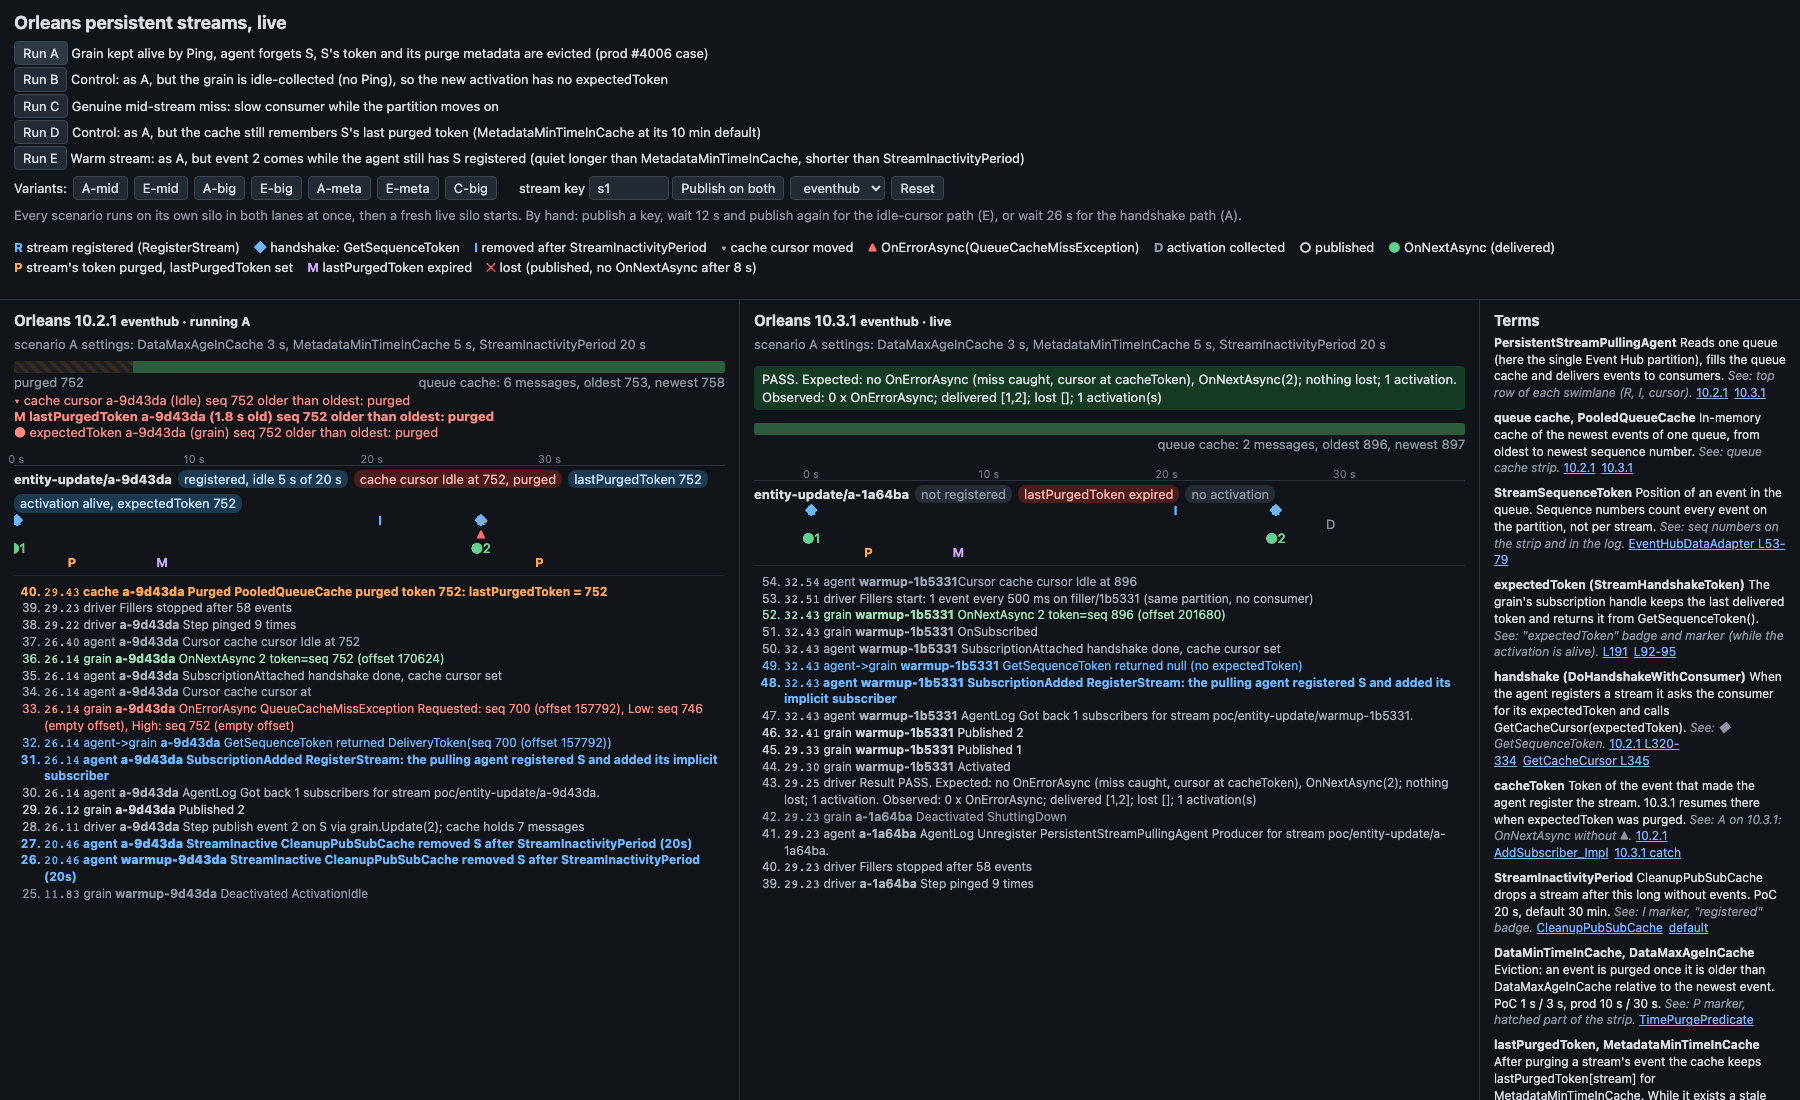
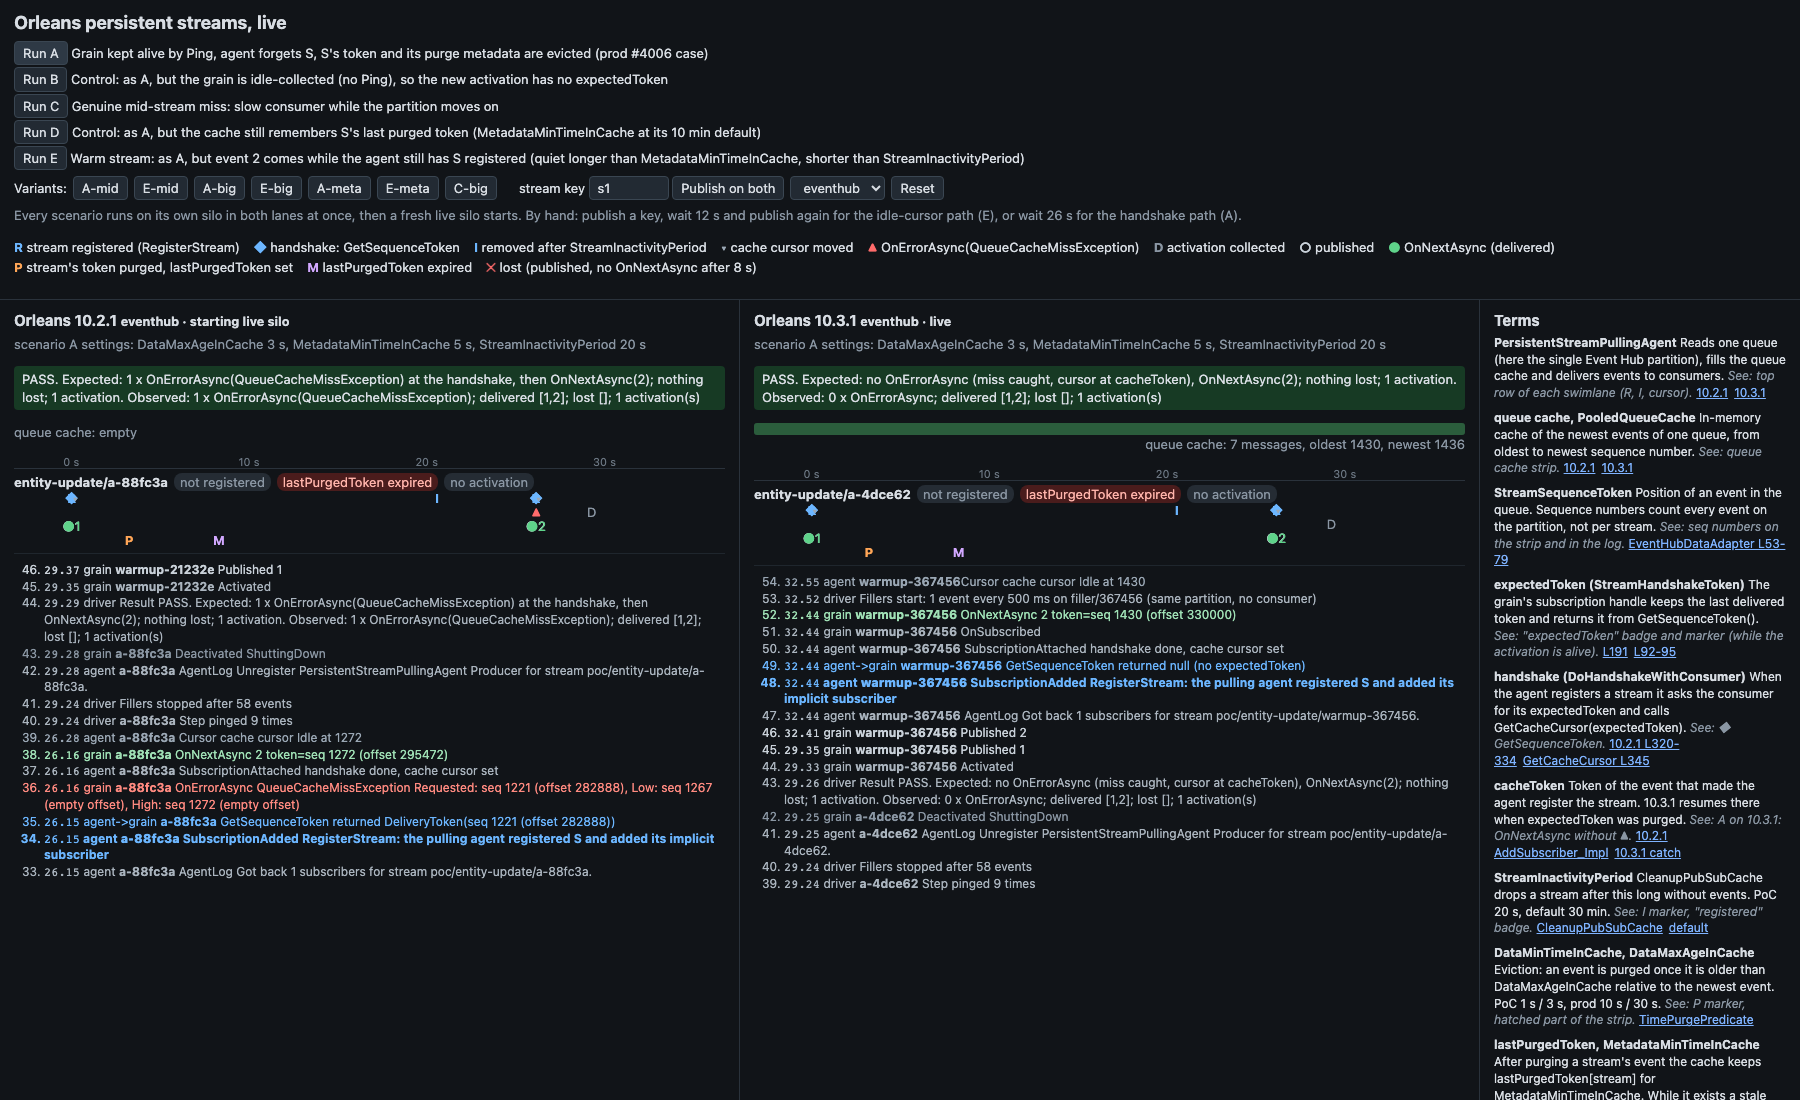
Live UI: ponytail cuts, review fixes (StopLive always stops the host, no false purge-metadata expiry on shutdown), README section

diff --git a/live/web/src/main.tsx b/live/web/src/main.tsx
@@ -3,8 +3,8 @@ import { createRoot } from 'react-dom/client'
 import { TERMS } from './terms'
 
 type FeedEvent = { at: number; source: string; stream: string; kind: string; detail: string; version: number | null }
-type Consumer = { state: string; cursor: string | null; cursorSeq: string | null; lastTokenSeq: string | null }
-type StreamState = { key: string; registered: boolean; idleS: number; consumers: Consumer[] }
+type Consumer = { cursor: string | null; cursorSeq: string | null }
+type StreamState = { key: string; idleS: number; consumers: Consumer[] }
 type Cache = { items: number; oldest: string | null; newest: string | null; lastPurgedToken: Record<string, { seq: string; ageS: number }> }
 type State = {
   orleans: string
@@ -15,9 +15,8 @@ type State = {
   snapshot: { cache: Cache | null; streams: StreamState[] } | null
 }
 
-// One backend per Orleans version (see live/compose.yml). Override with ?lanes=http://host:port,http://host:port
-const LANES =
-  new URLSearchParams(location.search).get('lanes')?.split(',') ?? [8102, 8103].map(p => `${location.protocol}//${location.hostname}:${p}`)
+// One backend per Orleans version, see live/compose.yml.
+const LANES = [8102, 8103].map(p => `${location.protocol}//${location.hostname}:${p}`)
 const LOST_AFTER_MS = 8000
 const WINDOW_MS = 180_000
 const MAIN_SCENARIOS = ['A', 'B', 'C', 'D', 'E']
@@ -197,7 +196,7 @@ function CacheStrip({ state, events }: { state?: State; events: FeedEvent[] }) {
     return <div className="strip muted">queue cache: empty</div>
   }
   const [oldest, newest] = [BigInt(cache.oldest), BigInt(cache.newest)]
-  const consumerStreams = (state!.snapshot!.streams ?? []).filter(s => !s.key.startsWith('warmup'))
+  const consumerStreams = state!.snapshot!.streams.filter(s => !s.key.startsWith('warmup'))
   const marks: { seq: bigint; text: string; cls: string }[] = []
   for (const s of consumerStreams) {
     const c = s.consumers[0]

diff --git a/src/Live/Program.cs b/src/Live/Program.cs
@@ -23,7 +23,7 @@ app.UseStaticFiles();
 app.MapGet("/api/events", (Feed feed, CancellationToken ct) => TypedResults.ServerSentEvents(feed.Subscribe(ct)));
 app.MapGet("/api/state", (Lane lane) => lane.State());
 app.MapPost("/api/publish", async (Lane lane, PublishRequest r) =>
-    await lane.Publish(r.Key, r.Version) is { } version ? Results.Ok(new { r.Key, version }) : Results.Conflict("live silo not ready"));
+    await lane.Publish(r.Key) is { } version ? Results.Ok(new { r.Key, version }) : Results.Conflict("live silo not ready"));
 app.MapPost("/api/scenarios/{id}/run", (Lane lane, string id) =>
     Scenarios.All.All(v => v.Id != id) ? Results.NotFound() : lane.TryRestart(id, null) ? Results.Accepted() : Results.Conflict("busy"));
 app.MapPost("/api/reset", (Lane lane, string? transport) =>
@@ -31,7 +31,7 @@ app.MapPost("/api/reset", (Lane lane, string? transport) =>
     : lane.TryRestart(null, transport) ? Results.Accepted() : Results.Conflict("busy"));
 app.Run();
 
-public sealed record PublishRequest(string Key, int? Version);
+public sealed record PublishRequest(string Key);
 
 /// <param name="At">Unix time in ms when the backend saw it.</param>
 public sealed record FeedEvent(long At, string Source, string Stream, string Kind, string Detail, int? Version);
@@ -98,16 +98,13 @@ public sealed class Lane : IHostedService
     public static readonly Version Orleans = Version.Parse(Regex.Match(
         typeof(StreamPullingAgentOptions).Assembly.GetCustomAttribute<AssemblyInformationalVersionAttribute>()!.InformationalVersion, @"^\d+(\.\d+)+").Value);
 
-    // Silo ports are 11111 + offset and 30000 + offset; set SILO_PORT_OFFSET when another silo runs on this host.
-    private static readonly int PortOffset = int.Parse(Environment.GetEnvironmentVariable("SILO_PORT_OFFSET") ?? "0");
     private static readonly string LogDir = Directory.CreateDirectory(Path.Combine(Path.GetTempPath(), "poc-logs")).FullName;
 
     private readonly Feed feed;
     private readonly Timeline timeline = new();
     private readonly SemaphoreSlim gate = new(1, 1);
     private readonly ConcurrentDictionary<string, int> published = new();
-    private readonly CancellationTokenSource stopping = new();
-    private string transport = Environment.GetEnvironmentVariable("TRANSPORT") ?? "eventhub";
+    private string transport = "eventhub";
     private string status = "starting";
     private Variant settings = Scenarios.Find("A");
     private IHost? live;
@@ -127,15 +124,11 @@ public sealed class Lane : IHostedService
     {
         // The Event Hubs emulator can take a while to accept connections after compose starts it.
         TryRestart(null, null, attempts: 30);
-        _ = Inspect(stopping.Token);
+        _ = Inspect();
         return Task.CompletedTask;
     }
 
-    public async Task StopAsync(CancellationToken cancellationToken)
-    {
-        await stopping.CancelAsync();
-        await StopLive();
-    }
+    public Task StopAsync(CancellationToken cancellationToken) => StopLive();
 
     public object State() => new
     {
@@ -153,14 +146,14 @@ public sealed class Lane : IHostedService
         snapshot,
     };
 
-    public async Task<int?> Publish(string key, int? version)
+    public async Task<int?> Publish(string key)
     {
         if (live is null || status != "live")
         {
             return null;
         }
 
-        var v = published.AddOrUpdate(key, version ?? 1, (_, last) => version ?? last + 1);
+        var v = published.AddOrUpdate(key, 1, (_, last) => last + 1);
         await live.Services.GetRequiredService<IClusterClient>().GetGrain<IConsumerGrain>(key).Update(v);
         return v;
     }
@@ -214,7 +207,7 @@ public sealed class Lane : IHostedService
         {
             status = $"running {scenario}";
             settings = Scenarios.Find(scenario);
-            var r = await new Scenarios(transport, Orleans, LogDir).Run(scenario, PortOffset + 1, timeline, sp => silo = sp);
+            var r = await new Scenarios(transport, Orleans, LogDir).Run(scenario, 1, timeline, sp => silo = sp);
             silo = null;
             feed.Add("driver", "", "Result", $"{(r.Pass ? "PASS" : "FAIL")}. Expected: {r.Expected}. Observed: {r.Observed}");
         }
@@ -222,7 +215,7 @@ public sealed class Lane : IHostedService
         status = "starting live silo";
         settings = Scenarios.Find("A");
         var suffix = Guid.NewGuid().ToString("N")[..6];
-        var host = SiloHost.Build(transport, timeline, $"live{suffix}", PortOffset, settings.DataMaxAgeInCache, settings.MetadataMinTimeInCache, TextWriter.Null);
+        var host = SiloHost.Build(transport, timeline, $"live{suffix}", 0, settings.DataMaxAgeInCache, settings.MetadataMinTimeInCache, TextWriter.Null);
         try
         {
             await host.StartAsync();
@@ -231,8 +224,15 @@ public sealed class Lane : IHostedService
             await Scenarios.WarmUp(client, timeline, suffix);
             liveLoops = new CancellationTokenSource();
             liveTasks = Task.WhenAll(
-                Scenarios.RunFillers(client.GetStreamProvider(Names.Provider), suffix, timeline, liveLoops.Token),
-                KeepAlive(client, liveLoops.Token));
+                    Scenarios.RunFillers(client.GetStreamProvider(Names.Provider), suffix, timeline, liveLoops.Token),
+                    KeepAlive(client, liveLoops.Token))
+                .ContinueWith(t =>
+                {
+                    if (t.IsFaulted)
+                    {
+                        feed.Add("backend", "", "Error", $"live silo fillers or keep-alive stopped: {t.Exception!.GetBaseException().Message}");
+                    }
+                });
             live = host;
             status = "live";
         }
@@ -251,13 +251,12 @@ public sealed class Lane : IHostedService
             return;
         }
 
-        status = "stopping live silo";
-        silo = null;
+        var host = live;
+        (live, silo, status) = (null, null, "stopping live silo");
         await liveLoops!.CancelAsync();
         await liveTasks;
-        await live.StopAsync();
-        live.Dispose();
-        live = null;
+        await host.StopAsync();
+        host.Dispose();
     }
 
     // Like prod discovery calling GetConfig(): published grains stay active, so they keep their expectedToken.
@@ -276,13 +275,13 @@ public sealed class Lane : IHostedService
         }
     }
 
-    private async Task Inspect(CancellationToken ct)
+    private async Task Inspect()
     {
         Snapshot? previous = null;
         IServiceProvider? previousSilo = null;
-        while (!ct.IsCancellationRequested)
+        while (true)
         {
-            await Task.Delay(250, CancellationToken.None);
+            await Task.Delay(250);
             var current = silo;
             if (current != previousSilo)
             {
@@ -309,8 +308,7 @@ public sealed class Lane : IHostedService
 
     private void Diff(Snapshot before, Snapshot after)
     {
-        var purgedBefore = before.Cache?.LastPurgedToken ?? [];
-        var purgedAfter = after.Cache?.LastPurgedToken ?? [];
+        var (purgedBefore, purgedAfter) = (before.Cache.LastPurgedToken, after.Cache.LastPurgedToken);
         foreach (var (key, p) in purgedAfter.Where(kv => !purgedBefore.TryGetValue(kv.Key, out var old) || old.Seq != kv.Value.Seq))
         {
             feed.Add("cache", key, "Purged", $"PooledQueueCache purged token {p.Seq}: lastPurgedToken = {p.Seq}");
@@ -353,12 +351,8 @@ public sealed class Lane : IHostedService
     {
         public void OnNext(T value) => next(value);
 
-        public void OnError(Exception error)
-        {
-        }
+        public void OnError(Exception error) { }
 
-        public void OnCompleted()
-        {
-        }
+        public void OnCompleted() { }
     }
 }

diff --git a/src/Live/Inspector.cs b/src/Live/Inspector.cs
@@ -10,17 +10,18 @@ namespace Live;
 // Sequence numbers are strings: memory-stream tokens are tick-based and exceed JavaScript's safe integer range.
 public sealed record Purged(string Seq, double AgeS);
 
-public sealed record Consumer(string State, string? Cursor, string? CursorSeq, string? LastTokenSeq);
+public sealed record Consumer(string? Cursor, string? CursorSeq);
 
-public sealed record StreamState(string Key, bool Registered, double IdleS, Consumer[] Consumers);
+public sealed record StreamState(string Key, double IdleS, Consumer[] Consumers);
 
 public sealed record CacheState(int Items, string? Oldest, string? Newest, Dictionary<string, Purged> LastPurgedToken);
 
-public sealed record Snapshot(CacheState? Cache, StreamState[] Streams);
+public sealed record Snapshot(CacheState Cache, StreamState[] Streams);
 
 /// <summary>
 /// Reads PersistentStreamPullingAgent and PooledQueueCache internals by reflection (field names are the same in 10.2.1 and 10.3.1).
 /// The agent mutates them on its own scheduler, so a read can fail; the caller skips that tick.
+/// Returns null before the receiver has a cache and after agent shutdown (queueCache = null).
 /// </summary>
 public static class Inspector
 {
@@ -32,20 +33,17 @@ public static class Inspector
         var agent = ((IEnumerable<KeyValuePair<GrainId, IGrainContext>>)silo.GetRequiredService(ActivationDirectory))
             .Select(kv => kv.Value)
             .FirstOrDefault(v => v.GetType().Name == "PersistentStreamPullingAgent");
-        if (agent is null)
+        if (Unwrap(Get(agent, "queueCache")) is not { } cache)
         {
             return null;
         }
 
         var now = DateTime.UtcNow;
-        var cache = Unwrap(Get(agent, "queueCache"));
-        var cacheState = cache is null
-            ? null
-            : new CacheState(
-                cache.ItemCount,
-                cache.Oldest?.SequenceNumber.ToString(),
-                cache.Newest?.SequenceNumber.ToString(),
-                ((Dictionary<StreamId, (DateTime TimeStamp, StreamSequenceToken Token)>)Get(cache, "lastPurgedToken")!).ToArray()
+        var cacheState = new CacheState(
+            cache.ItemCount,
+            cache.Oldest?.SequenceNumber.ToString(),
+            cache.Newest?.SequenceNumber.ToString(),
+            ((Dictionary<StreamId, (DateTime TimeStamp, StreamSequenceToken Token)>)Get(cache, "lastPurgedToken")!).ToArray()
                 .Where(kv => kv.Key.GetNamespace() == Names.ConsumerNamespace)
                 .ToDictionary(kv => kv.Key.GetKeyAsString(), kv => new Purged(kv.Value.Token.SequenceNumber.ToString(), (now - kv.Value.TimeStamp).TotalSeconds)));
 
@@ -54,7 +52,6 @@ public static class Inspector
             .Where(s => s.Id.GetNamespace() == Names.ConsumerNamespace)
             .Select(s => new StreamState(
                 s.Id.GetKeyAsString(),
-                (bool)Get(s.Collection, "StreamRegistered")!,
                 (now - (DateTime)Get(s.Collection, "lastActivityTime")!).TotalSeconds,
                 ((IDictionary)Get(s.Collection, "queueData")!).Values.Cast<object>().Select(ReadConsumer).ToArray()))
             .ToArray();
@@ -65,12 +62,7 @@ public static class Inspector
     {
         // StreamConsumerData.Cursor is the adapter's IQueueCacheCursor; its "cursor" field is PooledQueueCache.Cursor.
         var cursor = Get(Get(data, "Cursor"), "cursor");
-        var lastToken = Get(Get(data, "LastToken"), "Token") as StreamSequenceToken;
-        return new Consumer(
-            Get(data, "State")!.ToString()!,
-            Get(cursor, "State")?.ToString(),
-            (Get(cursor, "SequenceToken") as StreamSequenceToken)?.SequenceNumber.ToString(),
-            lastToken?.SequenceNumber.ToString());
+        return new Consumer(Get(cursor, "State")?.ToString(), (Get(cursor, "SequenceToken") as StreamSequenceToken)?.SequenceNumber.ToString());
     }
 
     // Event Hub: EventHubAdapterReceiver.cache -> EventHubQueueCache.cache. Memory: MemoryPooledCache.cache.

diff --git a/README.md b/README.md
@@ -33,6 +33,58 @@ dotnet artifacts/10.2.1/bin/Release/net10.0/Poc.dll --transport eventhub --scena
 
 Output: `results/<version>-<transport>.json` and `.md` (full callback timeline per scenario), `results/logs/<version>-<transport>-<scenario>.log` (silo log, pulling agent at Debug), `results/summary.md`. Each run prints the loaded `Orleans.Streaming` version and path, so you can check which build was used.
 
+## Learn Orleans streams with the live UI
+
+A web page runs the same scenarios on Orleans 10.2.1 and 10.3.1 side by side and shows grain callbacks, handshakes and queue cache changes as they happen.
+
+```bash
+cd live
+docker compose up --build        # first build takes a few minutes
+open http://localhost:8103
+./smoke.sh                       # publish on both lanes, expect OnNextAsync on /api/events
+docker compose down              # compose project orleans-poc-4006-ui
+```
+
+Compose publishes only ports 8102 (10.2.1) and 8103 (10.3.1). The Event Hubs emulator and Azurite stay on the compose network, so you can run the stack next to the root `docker-compose.yml`.
+
+![Scenario E on both versions](docs/live-ui-E.png)
+
+What to click:
+
+- **Run A** (handshake path): both lanes restart on a scenario silo. After 26 s event 2 arrives. On 10.2.1 you see `R ◆ ▲ ●2`: the pulling agent registers S again, `GetSequenceToken` returns event 1's token, the grain gets `OnErrorAsync(QueueCacheMissException)` with `Requested` older than `Low`, then `OnNextAsync(2)`. On 10.3.1 you see `R ◆ ●2` without `▲`. Screenshot: [docs/live-ui-A.png](docs/live-ui-A.png).
+- **Run E** (idle-cursor path): event 2 arrives after 12 s while S is still registered. Before it, the strip shows the cache cursor older than the oldest cached event and the badge `lastPurgedToken expired`. On 10.2.1 you get `▲` with `Requested: seq N (empty offset)`, then `✕2`: the agent never delivers event 2, and the cache purges it a few seconds later. On 10.3.1 `Cursor.Refresh` moves the idle cursor and the grain gets `OnNextAsync(2)`.
+- **Run B, C, D** and the variants: same as the CLI (see [What it proves](#what-it-proves)). The result line under the lane header shows the coded expectation and PASS or FAIL.
+- **Publish on both**: publishes on the live silo that runs between scenarios (scenario A timings, fillers, keep-alive Ping). Publish `s1`, wait 12 s and publish again for path E, or wait 26 s for path A.
+- **Reset** with `memory` selected switches both lanes to memory streams. E then loses event 2 on 10.3.1 as well.
+
+What each view shows:
+
+| View | Orleans concept | Source |
+|---|---|---|
+| Queue cache strip: cached range, hatched purged part, cursor, `lastPurgedToken` and `expectedToken` markers | `PooledQueueCache` oldest and newest `StreamSequenceToken`, eviction by `DataMaxAgeInCache` | [TimePurgePredicate.cs L32-36](https://github.com/dotnet/orleans/blob/v10.3.1/src/Orleans.Streaming/Common/PooledCache/TimePurgePredicate.cs#L32-L36) |
+| Badge `registered, idle x s of 20 s`, markers `R` and `I` | stream registration and `CleanupPubSubCache` after `StreamInactivityPeriod` | [v10.2.1 L642](https://github.com/dotnet/orleans/blob/v10.2.1/src/Orleans.Streaming/PersistentStreams/PersistentStreamPullingAgent.cs#L642), [L575-585](https://github.com/dotnet/orleans/blob/v10.2.1/src/Orleans.Streaming/PersistentStreams/PersistentStreamPullingAgent.cs#L575-L585) |
+| Marker `◆` and log line `GetSequenceToken returned DeliveryToken(...)` | handshake, `expectedToken` | [v10.2.1 L320-334](https://github.com/dotnet/orleans/blob/v10.2.1/src/Orleans.Streaming/PersistentStreams/PersistentStreamPullingAgent.cs#L320-L334), [StreamSubscriptionHandleImpl.cs L191](https://github.com/dotnet/orleans/blob/v10.3.1/src/Orleans.Streaming/Internal/StreamSubscriptionHandleImpl.cs#L191) |
+| Marker `▲` then `●` on 10.2.1, only `●` on 10.3.1 | `ErrorProtocol`, fallback to `cacheToken` | [v10.2.1 L354-379](https://github.com/dotnet/orleans/blob/v10.2.1/src/Orleans.Streaming/PersistentStreams/PersistentStreamPullingAgent.cs#L354-L379), [v10.3.1 L362-373](https://github.com/dotnet/orleans/blob/v10.3.1/src/Orleans.Streaming/PersistentStreams/PersistentStreamPullingAgent.cs#L362-L373) |
+| Markers `P` and `M`, badge `lastPurgedToken` | purge metadata, `MetadataMinTimeInCache` | [PooledQueueCache.cs v10.2.1 L140-166](https://github.com/dotnet/orleans/blob/v10.2.1/src/Orleans.Streaming/Common/PooledCache/PooledQueueCache.cs#L140-L166), [L198-220](https://github.com/dotnet/orleans/blob/v10.2.1/src/Orleans.Streaming/Common/PooledCache/PooledQueueCache.cs#L198-L220) |
+| Badge `cache cursor Idle at N, purged`, marker `▾`, `✕` lost | idle cursor in `RunConsumerCursor`, `Cursor.Refresh` | [EventHubAdapterReceiver.cs v10.2.1 L399-401](https://github.com/dotnet/orleans/blob/v10.2.1/src/Azure/Orleans.Streaming.EventHubs/Providers/Streams/EventHub/EventHubAdapterReceiver.cs#L399-L401), [v10.3.1 L443-446](https://github.com/dotnet/orleans/blob/v10.3.1/src/Azure/Orleans.Streaming.EventHubs/Providers/Streams/EventHub/EventHubAdapterReceiver.cs#L443-L446), [PersistentStreamPullingAgent.cs v10.2.1 L799-804](https://github.com/dotnet/orleans/blob/v10.2.1/src/Orleans.Streaming/PersistentStreams/PersistentStreamPullingAgent.cs#L799-L804) |
+| Badge `activation alive` / `no activation`, marker `D` | activation collection, `CollectionAge` | [GrainCollectionOptions.cs L24](https://github.com/dotnet/orleans/blob/v10.3.1/src/Orleans.Runtime/Configuration/Options/GrainCollectionOptions.cs#L24) |
+
+The Terms panel on the page has the same terms with more source links.
+
+How it works:
+
+- `live/compose.yml` builds `live/Dockerfile` twice (`ORLEANS_VERSION=10.2.1` and `10.3.1`). Each backend (`src/Live`) co-hosts the silo and a minimal API, serves the built React page (`live/web`) and reads its own Event Hub (`poc-hub-1021`, `poc-hub-1031`, 1 partition each), so the lanes do not share traffic.
+- Scenarios call `Scenarios.Run` from `src/Poc` with the shared `Timeline`, so the UI runs the exact CLI scenarios and expectations.
+- Event sources: `Timeline` (grain callbacks, `HandshakeProbe`, pulling-agent log lines), the Orleans `StreamingEvents` diagnostics (`SubscriptionAdded`, `SubscriptionAttached`, `StreamInactive`), and `src/Live/Inspector.cs`, which reads `PersistentStreamPullingAgent.pubSubCache`, the consumer cursors and `PooledQueueCache` (oldest, newest, `lastPurgedToken`) by reflection every 250 ms.
+- API: `GET /api/events` (Server-Sent Events, replays everything since the last reset), `GET /api/state`, `POST /api/publish {"key":"s1"}`, `POST /api/scenarios/{id}/run`, `POST /api/reset?transport=eventhub|memory`.
+
+Limits:
+
+- The inspector reads Orleans internals that are the same in 10.2.1 and 10.3.1. Other versions may need new field names.
+- The inspector samples state every 250 ms, so you cannot see the `Refresh` call. You see its effect: on 10.3.1 the cursor moves to event 2 and no `▲` follows.
+- The two lanes start their silos independently, so their clocks differ by a few seconds. 10.2.1 finishes E later because the driver waits 30 s for the lost event.
+- In C the driver publishes the burst on the stream directly, so lost events show only in the result line, not as `✕`.
+
 ## Setup
 
 | Piece | PoC | Prod equivalent |
@@ -153,4 +205,8 @@ How to tell the two paths apart in logs: the handshake path's `Requested` token 
 | `Directory.Build.props`, `Directory.Packages.props` | `-p:OrleansVersion=...` switch, per-version output under `artifacts/<version>/` |
 | `docker-compose.yml`, `emulator/Config.json` | Event Hubs emulator (1 partition, consumer group `orleans`) + Azurite |
 | `run-all.sh` | full matrix and `results/summary.md` |
+| `src/Live/` | live UI backend: minimal API, SSE feed, silo per lane, `Inspector.cs` |
+| `live/web/` | live UI page (React, Vite) |
+| `live/compose.yml`, `live/Dockerfile`, `live/emulator.json`, `live/smoke.sh` | live UI stack and smoke test |
+| `docs/live-ui-*.png` | live UI screenshots |
 | `results/` | output of the last `./run-all.sh` |
